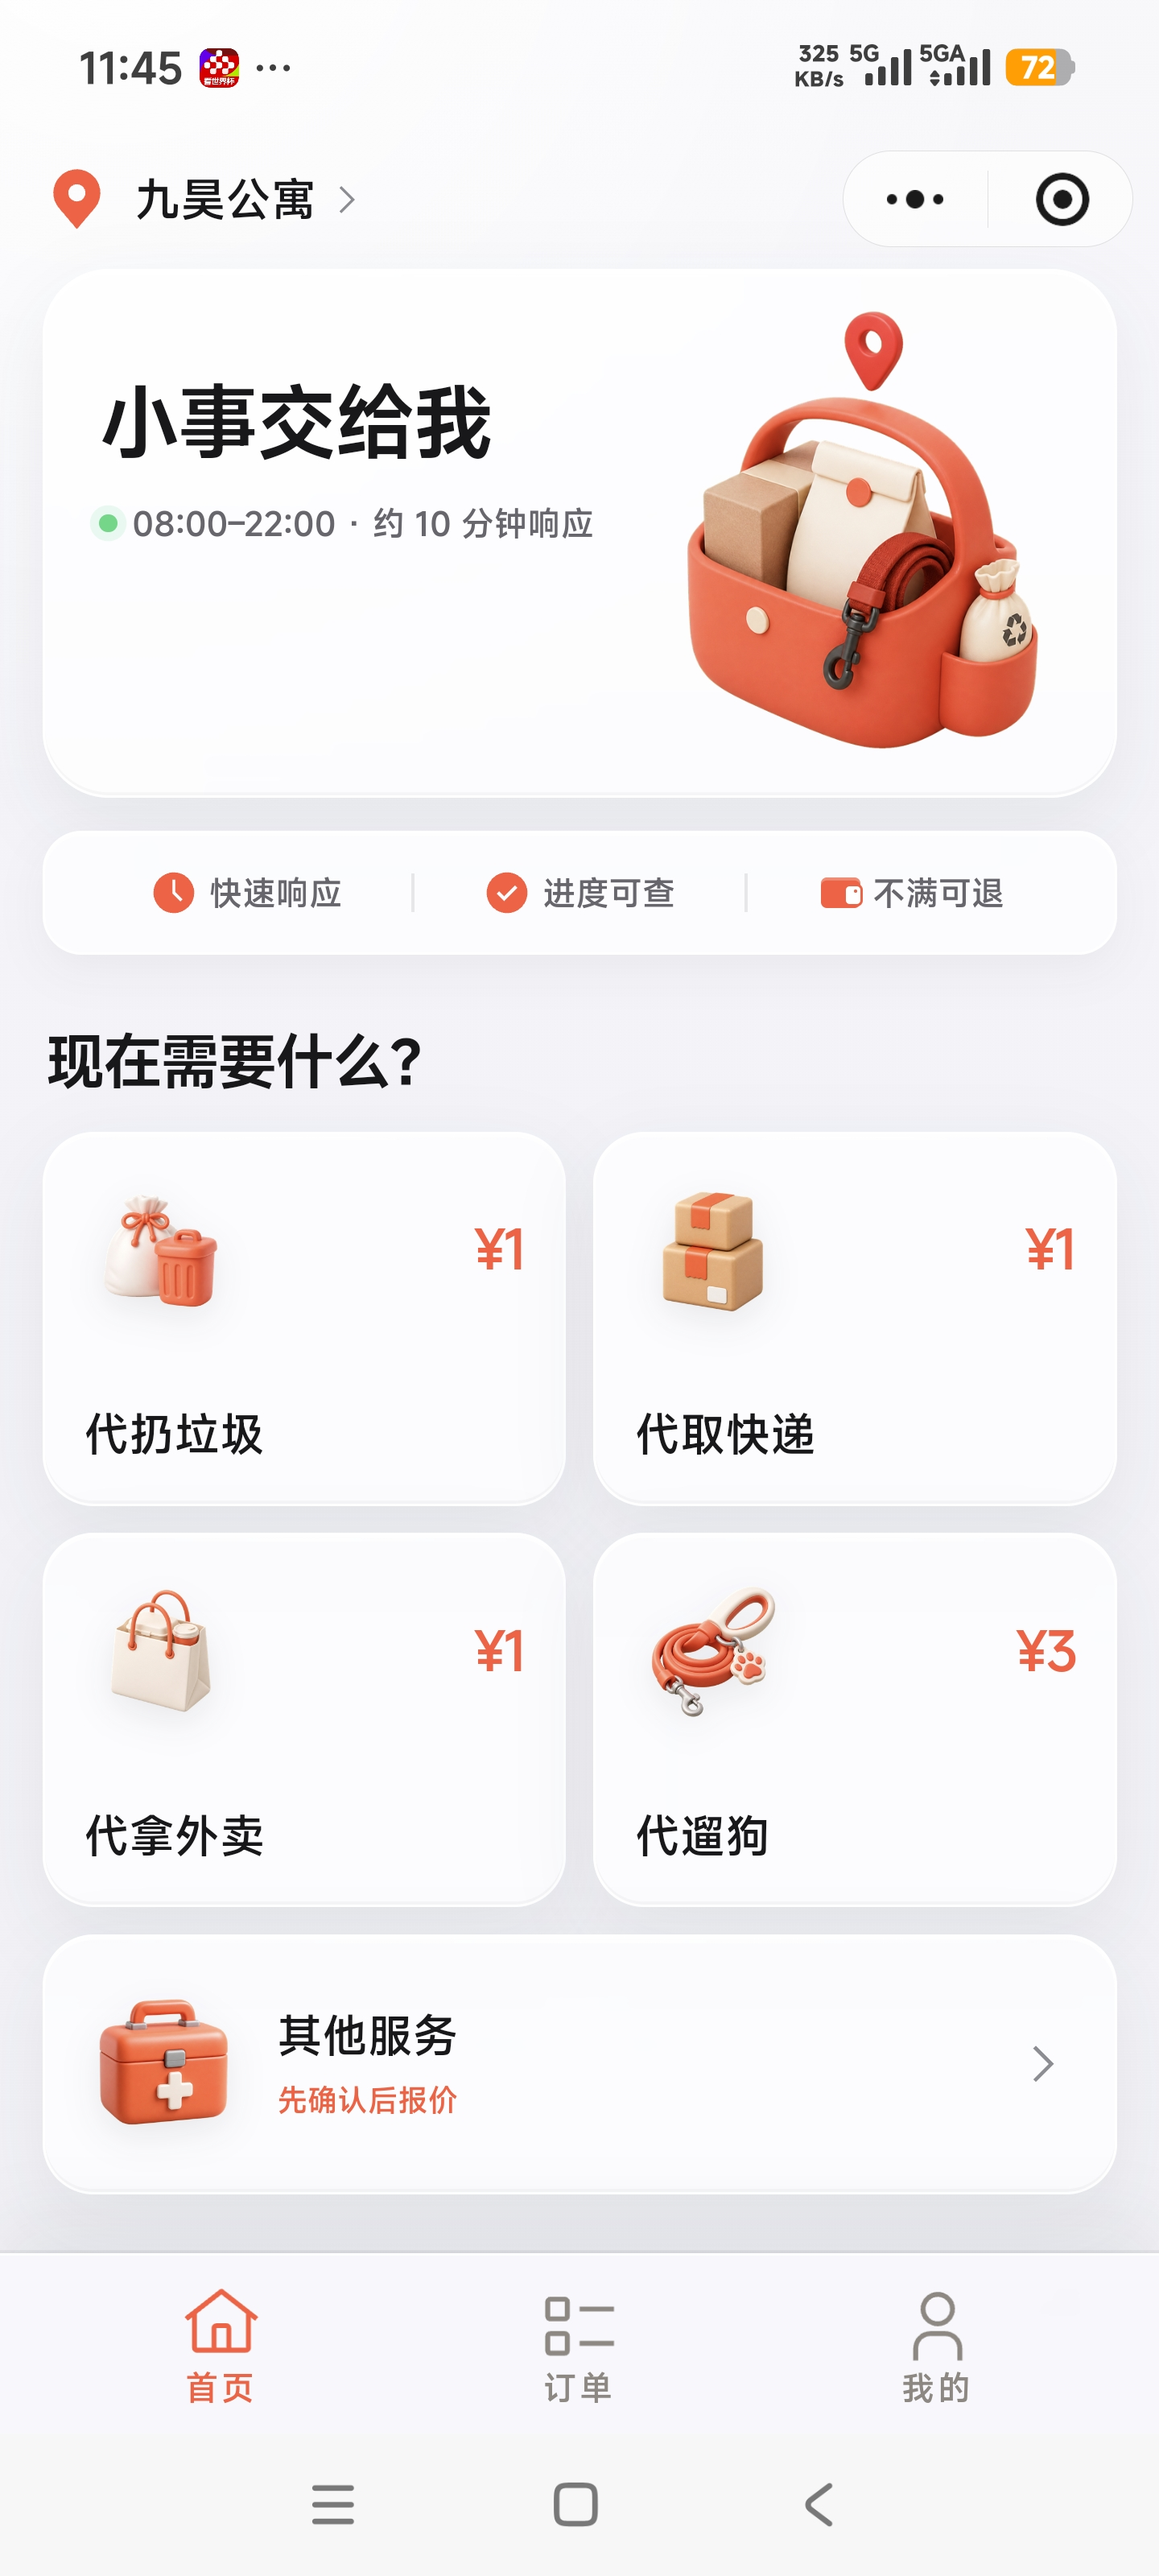
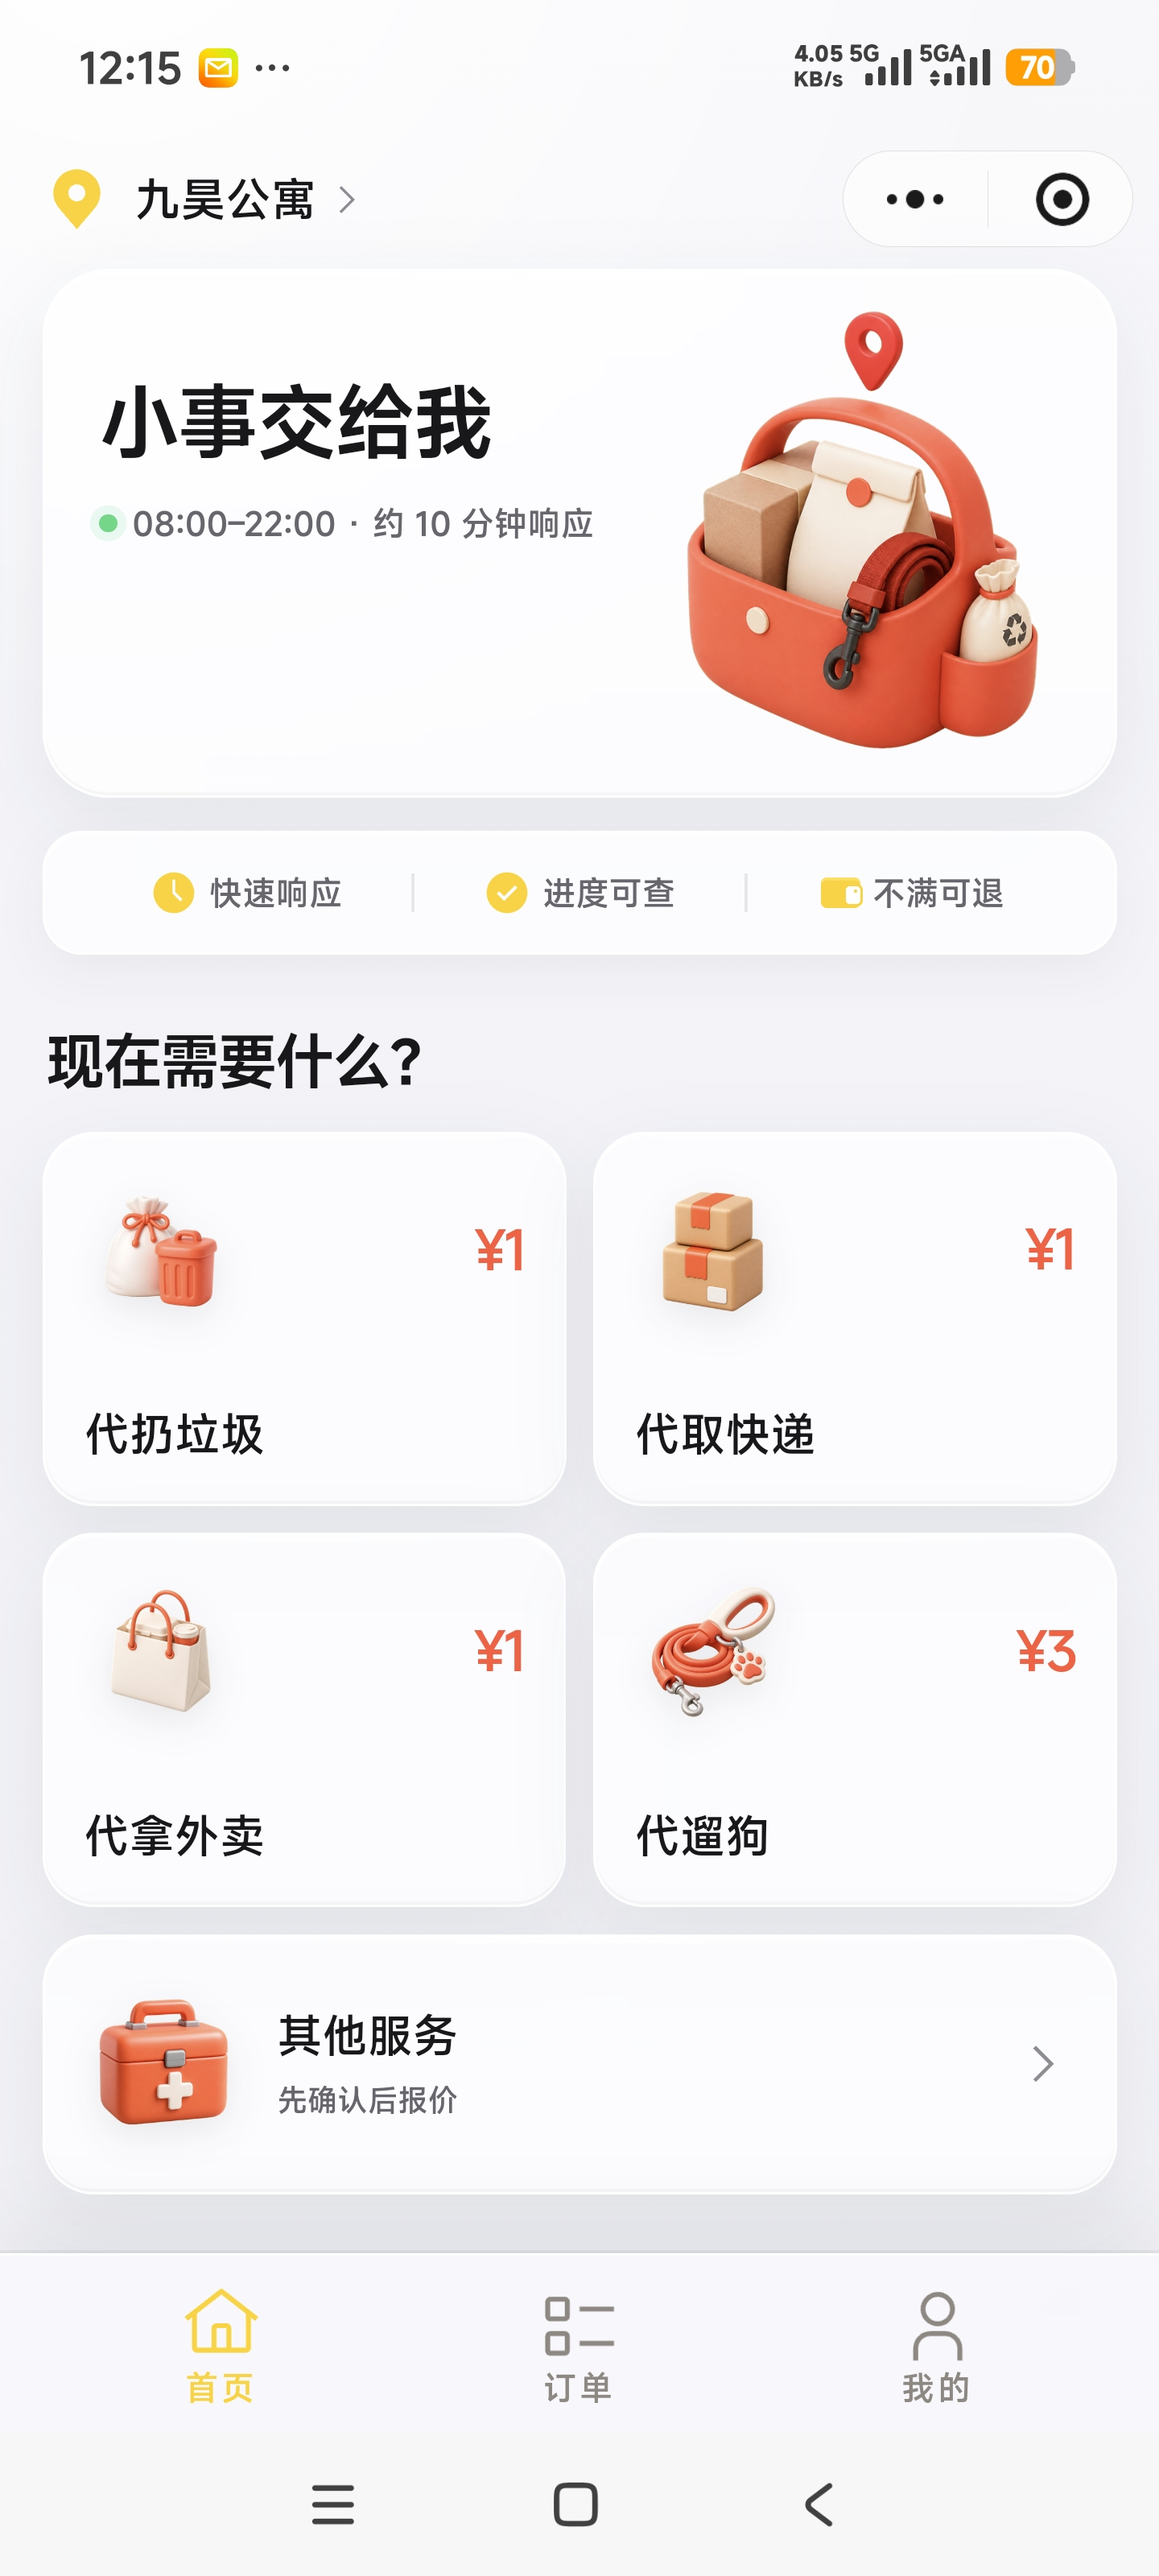
chore: refresh errand project previews

diff --git a/app/data/portfolio.ts b/app/data/portfolio.ts
@@ -320,7 +320,7 @@ export function getProjects(isEnglish: boolean): Project[] {
         note: 'Residents log in with one tap via WeChat, locate their community, schedule a service time, and add notes. After payment they can track progress in real time, and unaccepted orders are automatically refunded. The frontend is built with uni-app, the backend with Nest.Js, and the database is MySQL.',
         tags: ['Uni-app', 'WeChat Mini Program', 'Nest.Js', 'MySQL', 'Full-stack'],
         image: '/projects/errand-home.jpg',
-        previewImages: ['/projects/errand-home.jpg', '/projects/errand-order.jpg', '/projects/errand-profile.jpg']
+        previewImages: ['/projects/errand-home.jpg', '/projects/errand-order.jpg', '/projects/errand-orders.jpg']
       }, {
         title: 'EasyIoT',
         subtitle: 'Intelligent IoT cloud platform',
@@ -390,7 +390,7 @@ export function getProjects(isEnglish: boolean): Project[] {
         note: '住户微信一键登录即可下单，支持定位选择小区、预约服务时间、填写补充说明，付款后可实时查看进度，未接单原路退款。前端基于 uni-app，后端使用 Nest.Js，数据库为 MySQL。',
         tags: ['Uni-app', '微信小程序', 'Nest.Js', 'MySQL', '全栈'],
         image: '/projects/errand-home.jpg',
-        previewImages: ['/projects/errand-home.jpg', '/projects/errand-order.jpg', '/projects/errand-profile.jpg']
+        previewImages: ['/projects/errand-home.jpg', '/projects/errand-order.jpg', '/projects/errand-orders.jpg']
       }, {
         title: '易联智能',
         subtitle: '智能化物联网云平台',
